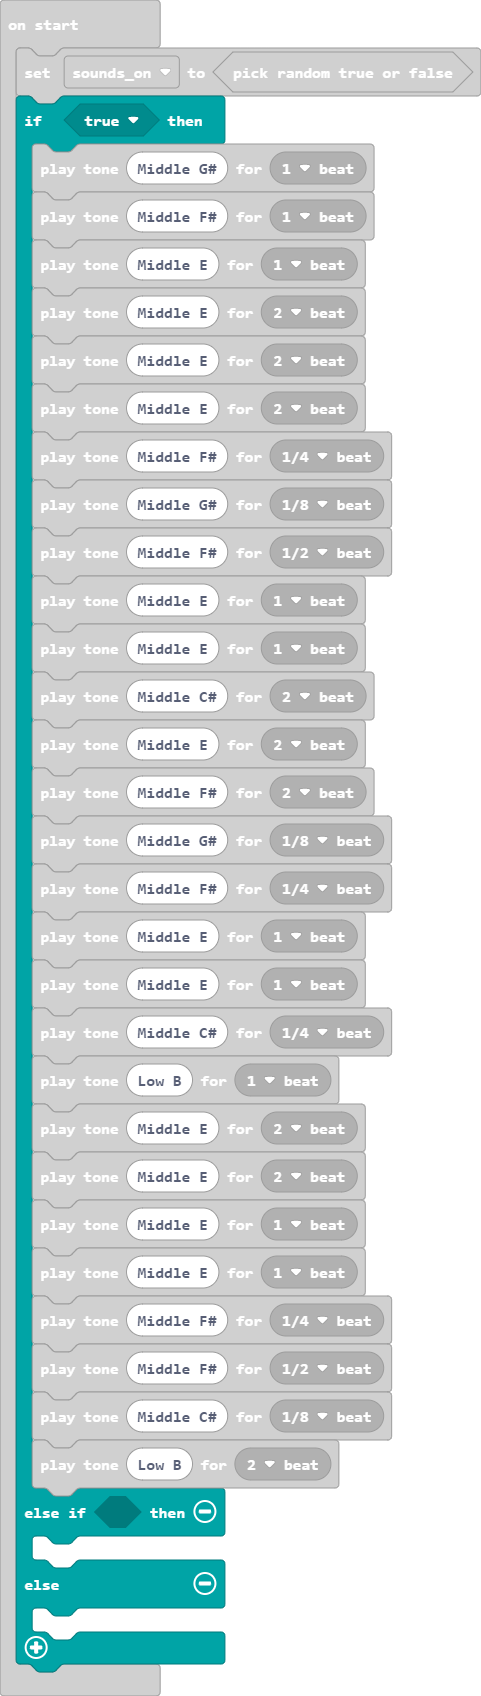
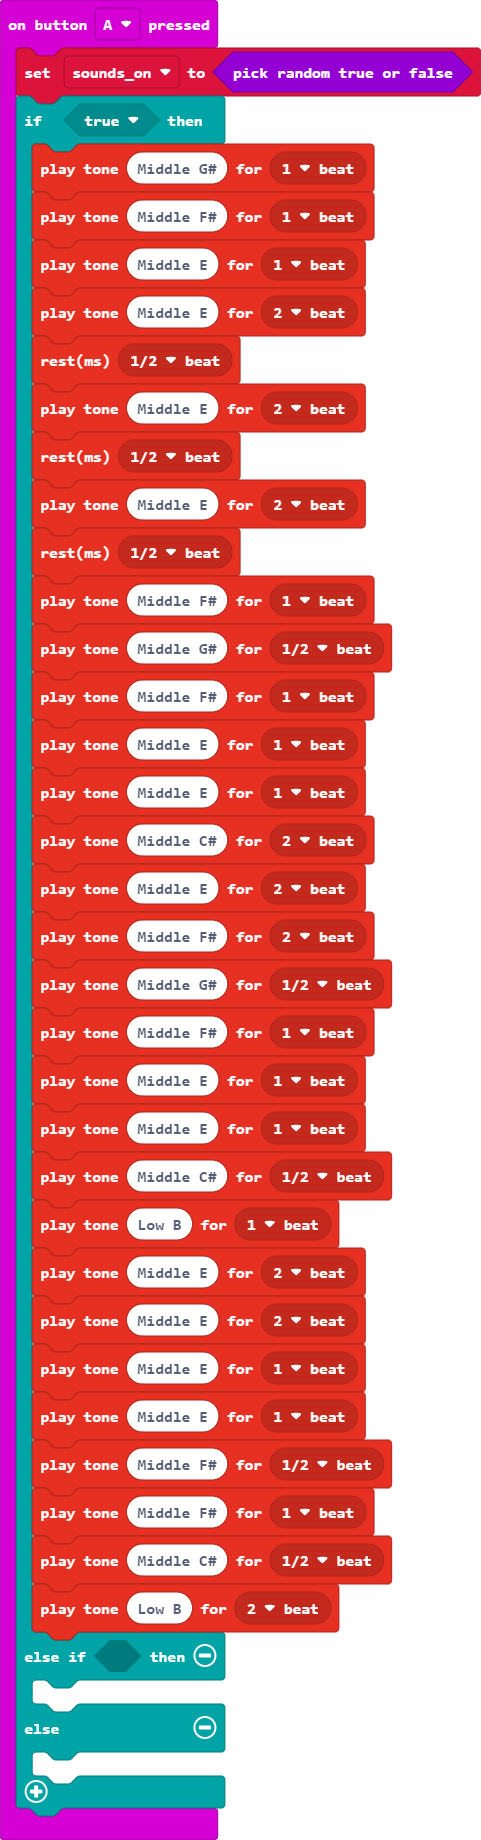
Update main.blocks, main.ts

diff --git a/main.ts b/main.ts
@@ -1,38 +1,44 @@
-let sounds_on = Math.randomBoolean()
-if (true) {
-    music.playTone(415, music.beat(BeatFraction.Whole))
-    music.playTone(370, music.beat(BeatFraction.Whole))
-    music.playTone(330, music.beat(BeatFraction.Whole))
-    music.playTone(330, music.beat(BeatFraction.Double))
-    music.playTone(330, music.beat(BeatFraction.Double))
-    music.playTone(330, music.beat(BeatFraction.Double))
-    music.playTone(370, music.beat(BeatFraction.Quarter))
-    music.playTone(415, music.beat(BeatFraction.Eighth))
-    music.playTone(370, music.beat(BeatFraction.Half))
-    music.playTone(330, music.beat(BeatFraction.Whole))
-    music.playTone(330, music.beat(BeatFraction.Whole))
-    music.playTone(277, music.beat(BeatFraction.Double))
-    music.playTone(330, music.beat(BeatFraction.Double))
-    music.playTone(370, music.beat(BeatFraction.Double))
-    music.playTone(415, music.beat(BeatFraction.Eighth))
-    music.playTone(370, music.beat(BeatFraction.Quarter))
-    music.playTone(330, music.beat(BeatFraction.Whole))
-    music.playTone(330, music.beat(BeatFraction.Whole))
-    music.playTone(277, music.beat(BeatFraction.Quarter))
-    music.playTone(247, music.beat(BeatFraction.Whole))
-    music.playTone(330, music.beat(BeatFraction.Double))
-    music.playTone(330, music.beat(BeatFraction.Double))
-    music.playTone(330, music.beat(BeatFraction.Whole))
-    music.playTone(330, music.beat(BeatFraction.Whole))
-    music.playTone(370, music.beat(BeatFraction.Quarter))
-    music.playTone(370, music.beat(BeatFraction.Half))
-    music.playTone(277, music.beat(BeatFraction.Eighth))
-    music.playTone(247, music.beat(BeatFraction.Double))
-} else if (false) {
-	
-} else {
-	
-}
+let sounds_on = false
+input.onButtonPressed(Button.A, function () {
+    sounds_on = Math.randomBoolean()
+    if (true) {
+        music.playTone(415, music.beat(BeatFraction.Whole))
+        music.playTone(370, music.beat(BeatFraction.Whole))
+        music.playTone(330, music.beat(BeatFraction.Whole))
+        music.playTone(330, music.beat(BeatFraction.Double))
+        music.rest(music.beat(BeatFraction.Half))
+        music.playTone(330, music.beat(BeatFraction.Double))
+        music.rest(music.beat(BeatFraction.Half))
+        music.playTone(330, music.beat(BeatFraction.Double))
+        music.rest(music.beat(BeatFraction.Half))
+        music.playTone(370, music.beat(BeatFraction.Whole))
+        music.playTone(415, music.beat(BeatFraction.Half))
+        music.playTone(370, music.beat(BeatFraction.Whole))
+        music.playTone(330, music.beat(BeatFraction.Whole))
+        music.playTone(330, music.beat(BeatFraction.Whole))
+        music.playTone(277, music.beat(BeatFraction.Double))
+        music.playTone(330, music.beat(BeatFraction.Double))
+        music.playTone(370, music.beat(BeatFraction.Double))
+        music.playTone(415, music.beat(BeatFraction.Half))
+        music.playTone(370, music.beat(BeatFraction.Whole))
+        music.playTone(330, music.beat(BeatFraction.Whole))
+        music.playTone(330, music.beat(BeatFraction.Whole))
+        music.playTone(277, music.beat(BeatFraction.Half))
+        music.playTone(247, music.beat(BeatFraction.Whole))
+        music.playTone(330, music.beat(BeatFraction.Double))
+        music.playTone(330, music.beat(BeatFraction.Double))
+        music.playTone(330, music.beat(BeatFraction.Whole))
+        music.playTone(330, music.beat(BeatFraction.Whole))
+        music.playTone(370, music.beat(BeatFraction.Half))
+        music.playTone(370, music.beat(BeatFraction.Whole))
+        music.playTone(277, music.beat(BeatFraction.Half))
+        music.playTone(247, music.beat(BeatFraction.Double))
+    } else if (false) {
+    	
+    } else {
+    	
+    }
+})
 basic.forever(function () {
 	
 })
